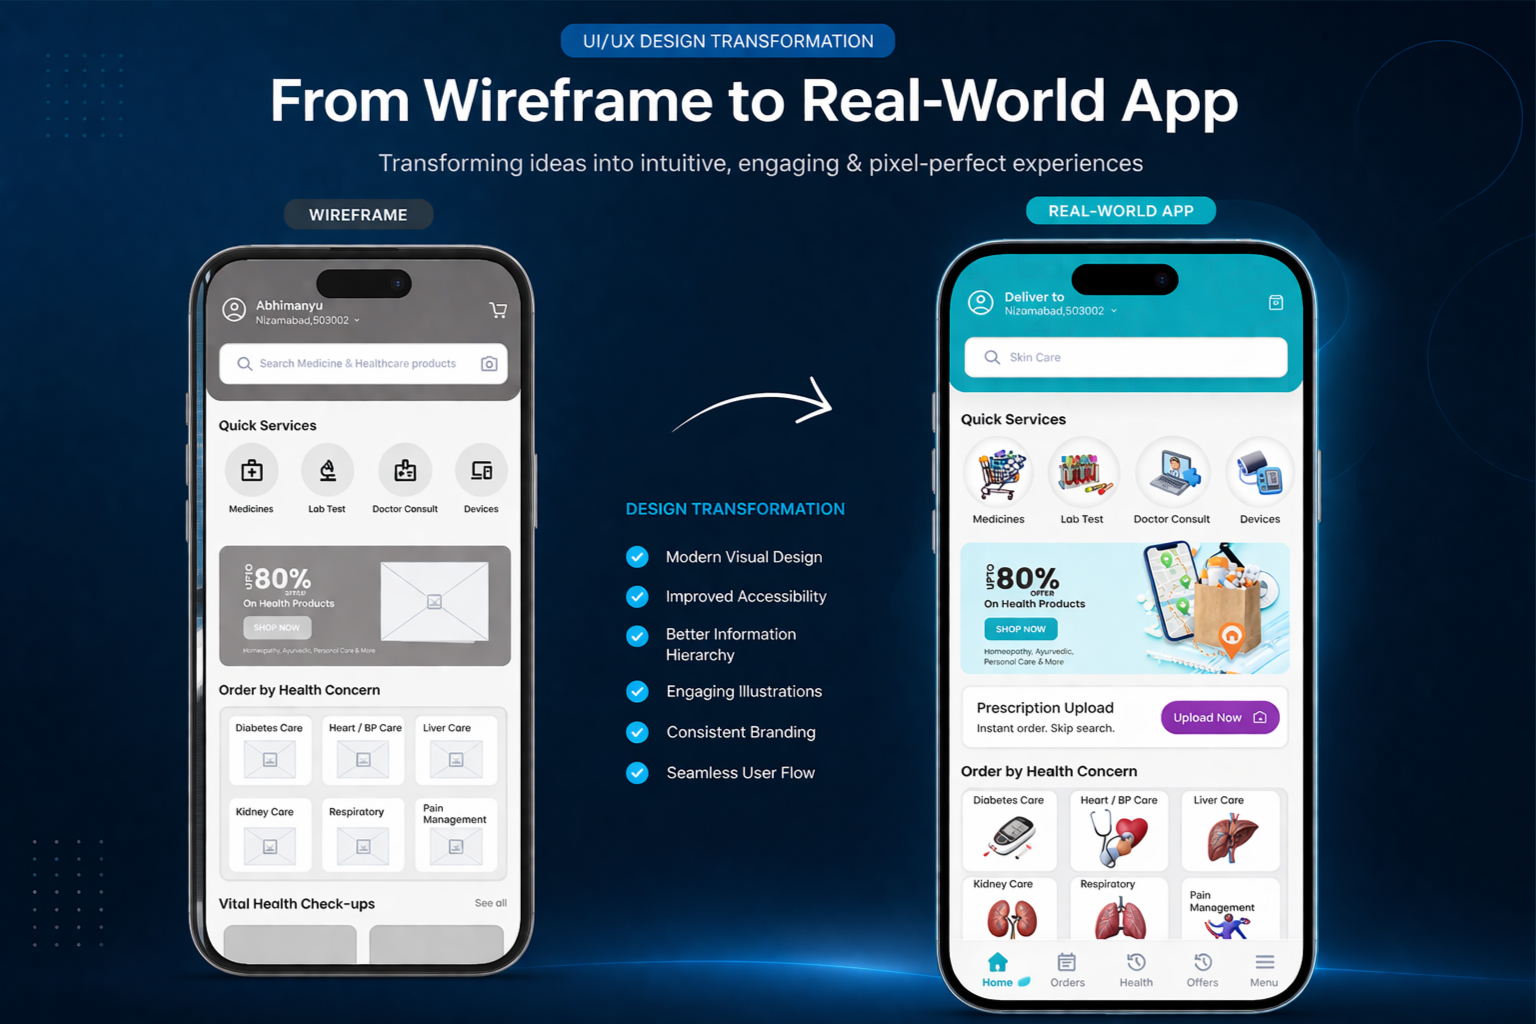
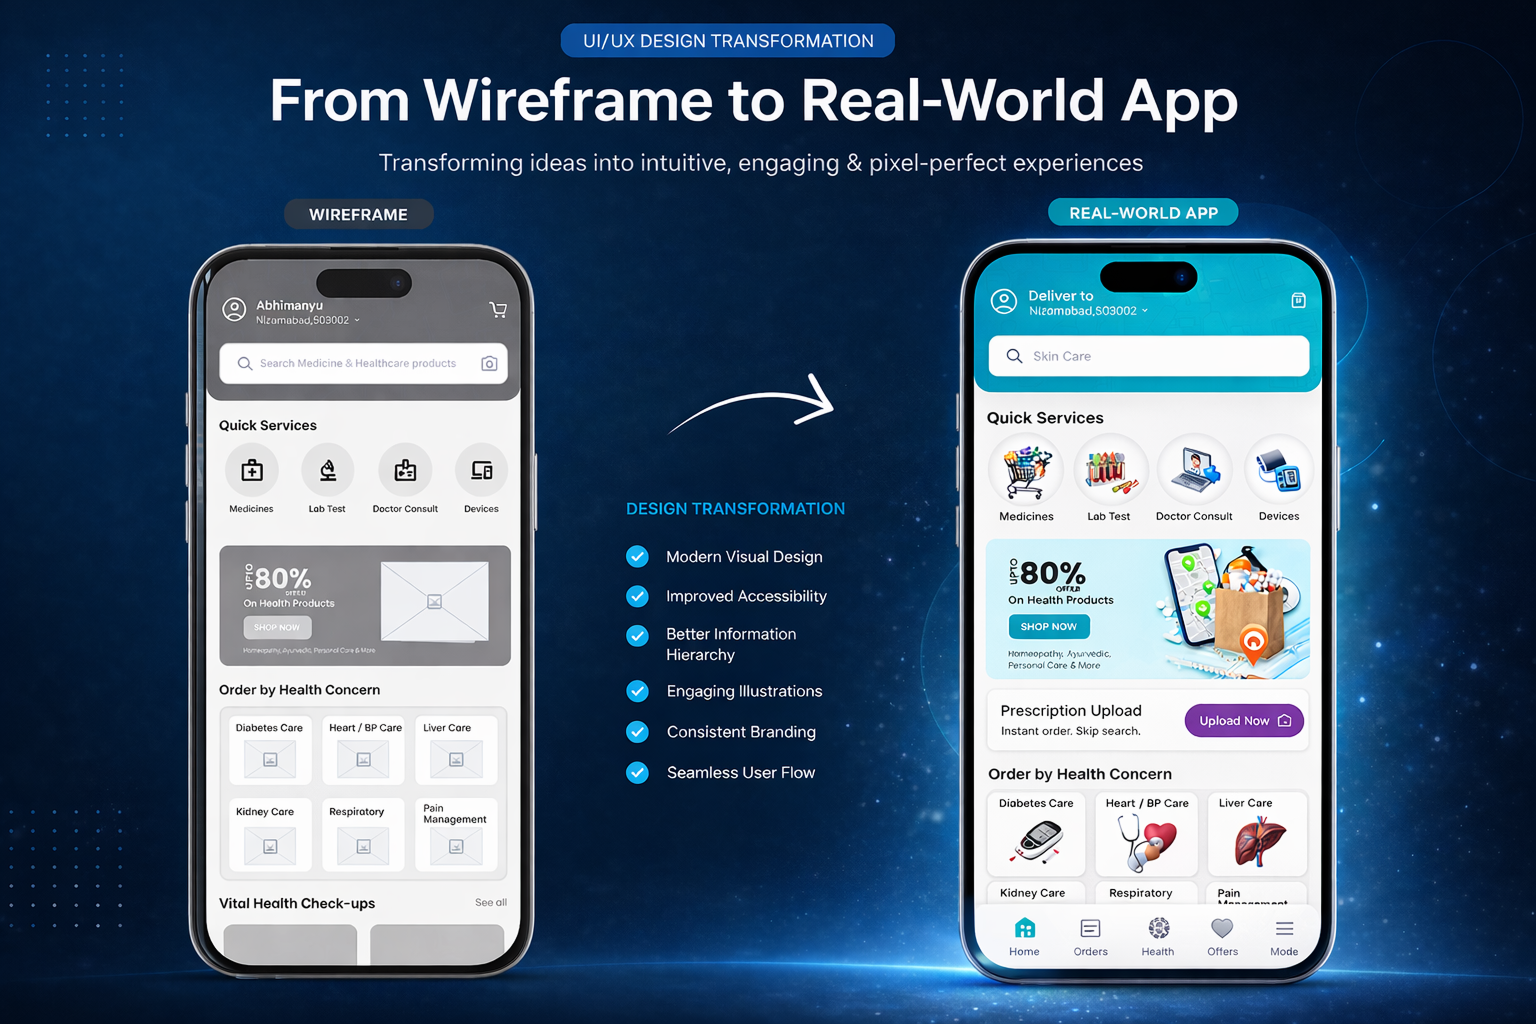
ui

diff --git a/index.html b/index.html
@@ -1,13 +1,15 @@
 <!doctype html>
 <html lang="en">
-  <head>
-    <meta charset="UTF-8" />
-    <meta name="viewport" content="width=device-width, initial-scale=1.0" />
-    <title>My Google AI Studio App</title>
-  </head>
-  <body>
-    <div id="root"></div>
-    <script type="module" src="/src/main.tsx"></script>
-  </body>
-</html>
 
+<head>
+  <meta charset="UTF-8" />
+  <meta name="viewport" content="width=device-width, initial-scale=1.0" />
+  <title>saimaggidi-portfolio</title>
+</head>
+
+<body>
+  <div id="root"></div>
+  <script type="module" src="/src/main.tsx"></script>
+</body>
+
+</html>
